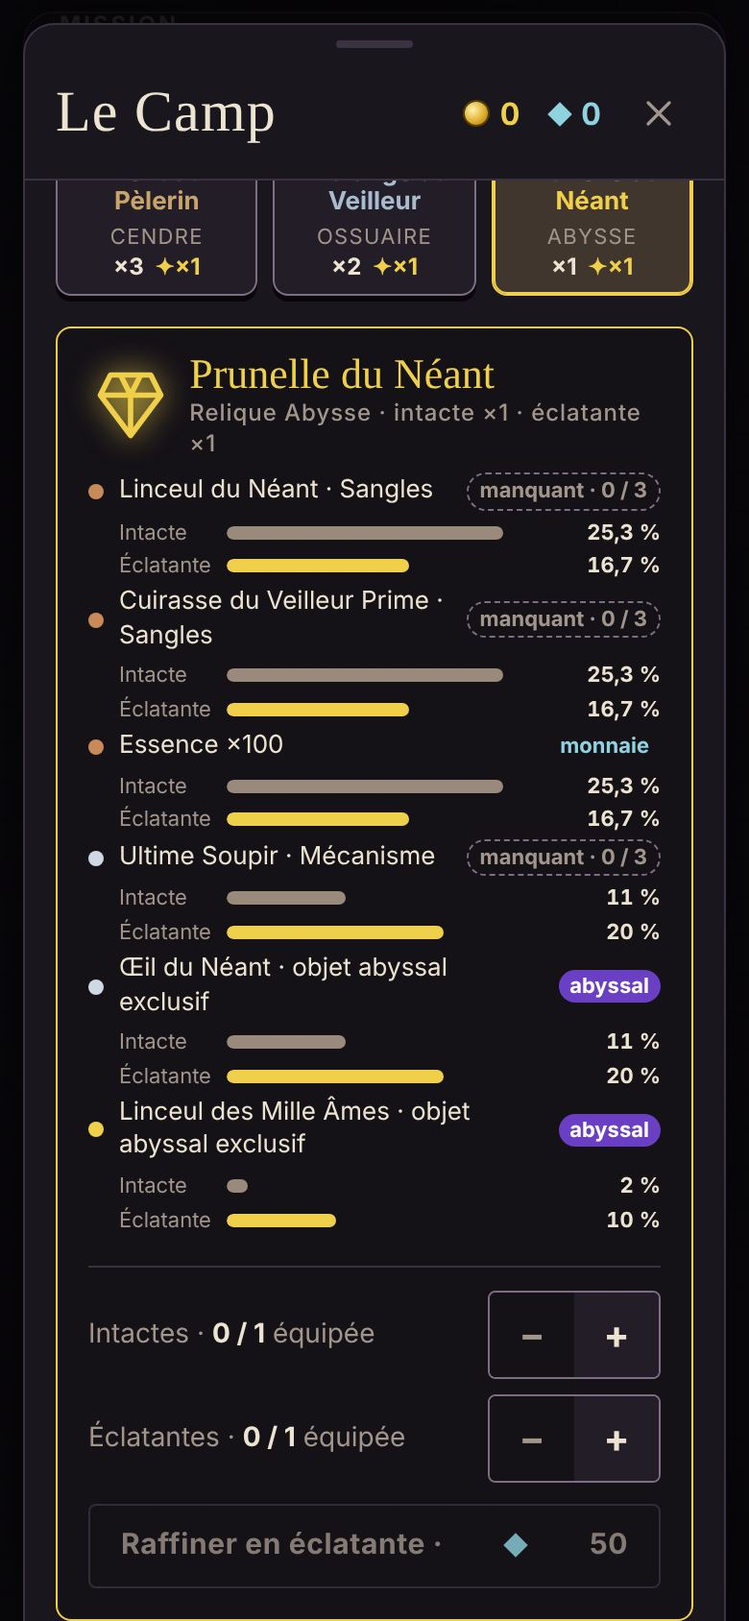
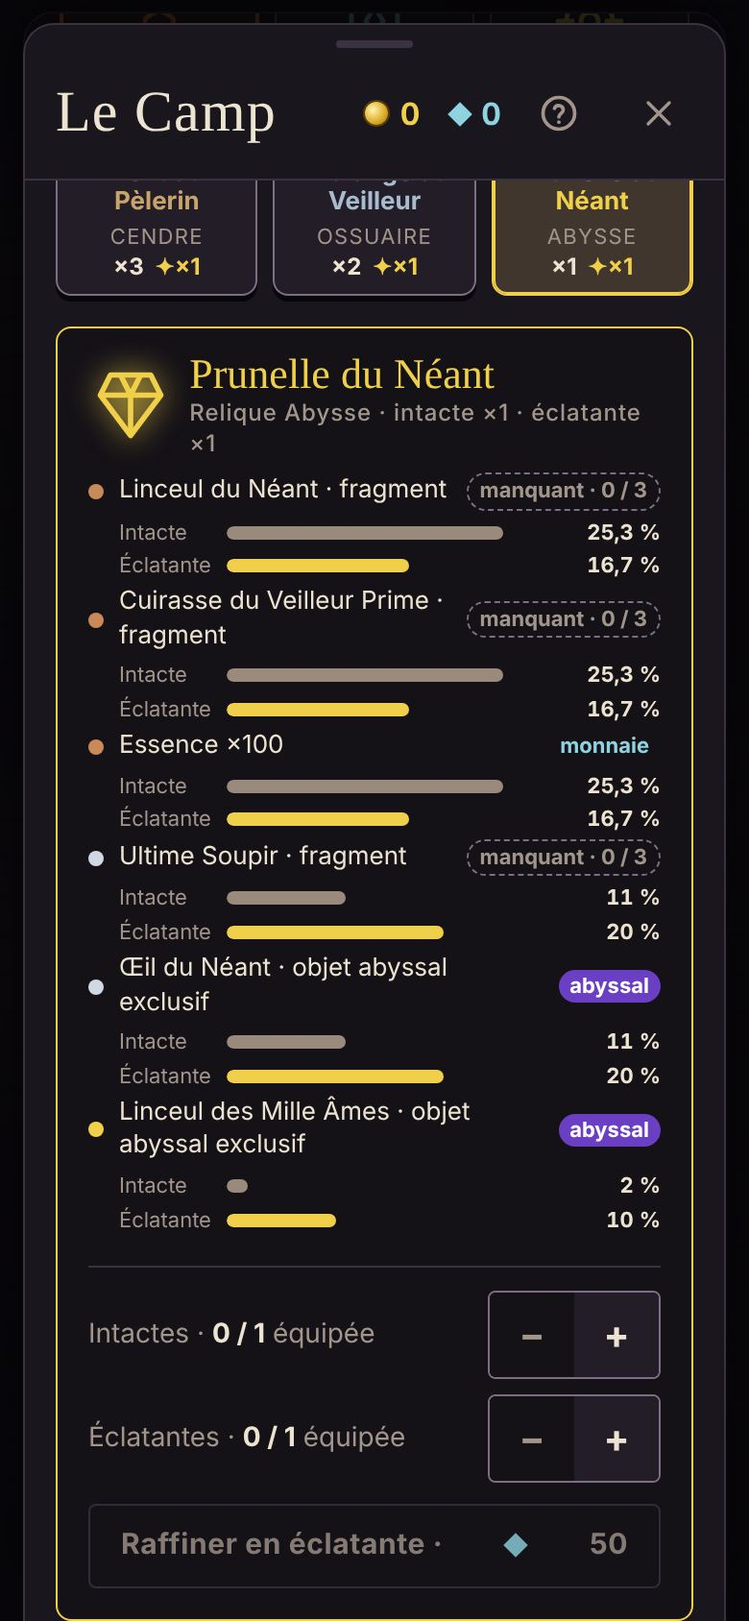
feat(butin): schémas légendaires et Prime réservés aux reliques Abysse, reliques forgées ouvertes en mission, fragments manquants en priorité,fix(rendu): écran noir au redémarrage, boucle protégée, bascule auto en rendu standard si le contexte WebGL est perdu

diff --git a/js/camp.js b/js/camp.js
@@ -102,7 +102,7 @@ function campArsenal2(){
 }
 let relSel=null,relTier='all';
 const FUSE_COST=[20,40,80,150];
-function relAvail(t){const out=[];for(const id in RELICS){if(RELICS[id].t!==t)continue;const a=meta.relics[id];if(!a)continue;
+function relAvail(t){const out=[];for(const id in RELICS){if(RELICS[id].t!==t||RELICS[id].fz)continue;const a=meta.relics[id];if(!a)continue;
   for(const rad of [false,true]){const own=Math.max(0,a[rad?1:0]|0),q=Math.min(own,relicQN(id,rad));for(let k=0;k<own;k++)out.push({id,rad,q:k>=own-q})}}
   return out.sort((x,y)=>(x.q-y.q)||(x.rad-y.rad)||((meta.relics[y.id][0]+meta.relics[y.id][1])-(meta.relics[x.id][0]+meta.relics[x.id][1])))}
 const legBps=()=>[...WPN[heroCls].filter(w=>w.r===3&&!ownedW(w.id)),...Object.keys(WPN).filter(c=>c!==heroCls).flatMap(c=>WPN[c].filter(w=>w.r===3&&!ownedW(w.id))),...GEAR_BP.filter(g=>g.r===3)].map(x=>x.id);
@@ -110,19 +110,20 @@ function chainPlan(t){const have=[0,1,2,3].map(i=>relAvail(i).length);let cost=0
   const ensure=(k,n)=>{const use=Math.min(n,have[k]);have[k]-=use;let r=n-use;if(!r)return true;if(k===0)return false;if(!ensure(k-1,3*r))return false;cost+=r*FUSE_COST[k-1];fus+=r;return true};
   if(!ensure(t,3))return null;return {cost:cost+FUSE_COST[t],fus}}
 function fuseOnce(t){const av=relAvail(t);if(av.length<3)return null;meta.essence-=FUSE_COST[t];for(const q of av.slice(0,3))meta.relics[q.id][q.rad?1:0]--;relicQFix();
-  if(t<3){const nid=pick(Object.keys(RELICS).filter(id=>RELICS[id].t===t+1&&!RELICS[id].bio));const a=meta.relics[nid]||(meta.relics[nid]=[0,0]);a[0]++;return nid}return true}
+  if(t<3){const nid=pick(Object.keys(RELICS).filter(id=>RELICS[id].t===t+1&&!RELICS[id].bio&&!RELICS[id].fz));const a=meta.relics[nid]||(meta.relics[nid]=[0,0]);a[0]++;return nid}return true}
 function ensureRel(t){while(relAvail(t).length<3){if(t===0)return false;if(!ensureRel(t-1))return false;fuseOnce(t-1)}return true}
 function fusionSection(){
-  let h=`<section class="cx-section"><h3 class="cx-section__label">Fusion de reliques</h3><p class="cx-hint" style="margin:0">Fusionne 3 reliques d'un même niveau. Celles hors de la file d'ouverture partent en premier, les intactes avant les éclatantes ; si besoin, des reliques de la file sont utilisées et en sont retirées. Trois reliques Abysse donnent un fragment de schéma légendaire de ton choix.</p><div class="fuse">`;
+  {const L=legBps();if(!fuseTgt||!L.includes(fuseTgt))fuseTgt=L[0]||null}
+  let h=`<section class="cx-section"><h3 class="cx-section__label">Fusion de reliques</h3><p class="cx-hint" style="margin:0">Fusionne 3 reliques d'un même niveau. Celles hors de la file d'ouverture partent en premier, les intactes avant les éclatantes ; si besoin, des reliques de la file sont utilisées et en sont retirées. Trois reliques Abysse donnent une relique forgée du schéma légendaire de ton choix : ouvre-la en mission pour recevoir à coup sûr un de ses fragments.</p><div class="fuse">`;
   for(let t=0;t<4;t++){const AV=relAvail(t),av=AV.length,qn=AV.slice(0,3).filter(q=>q.q).length,inQ=AV.filter(q=>q.q).length,cp=av<3&&t>0?chainPlan(t):null,cost=cp?cp.cost:FUSE_COST[t],ok=(av>=3||cp)&&meta.essence>=cost;
-    const res=t<3?`1 relique <b style="color:${RTIER[t+1].c}">${RTIER[t+1].n}</b>`:'<b style="color:var(--rar-legend)">1 fragment légendaire</b>';
+    const res=t<3?`1 relique <b style="color:${RTIER[t+1].c}">${RTIER[t+1].n}</b>`:`1 <b style="color:${RTIER[3].c}">relique forgée</b>`;
     h+=`<div class="frow"><span class="rgem" style="--tc:${RTIER[t].c}">${RELIC_SVG}</span><div class="fl"><b>3 × <span style="color:${RTIER[t].c}">${RTIER[t].n}</span> → ${res}</b><span>${av} possédée${av>1?'s':''}${inQ?` dont ${inQ} dans la file d'ouverture`:''}${av<3?(cp?` · les ${3-av} manquante${3-av>1?'s':''} seront créée${3-av>1?'s':''} avec tes reliques de niveau inférieur (${cp.fus} fusion${cp.fus>1?'s':''} en plus)`:` · il en faut ${3-av} de plus${t>0?`, ou ${3*(3-av)} ${RTIER[t-1].n} pour les créer`:''}`):''}${(av>=3||cp)&&meta.essence<cost?` · il manque ${cost-meta.essence} essence`:''}${ok&&qn?` · ${qn} ${qn>1?'seront retirées':'sera retirée'} de la file`:''}</span></div>
       <button class="btn buy" data-cact="rfuse" data-arg="${t}" ${ok&&(t<3||fuseTgt)?'':'disabled'}>${cp?'Fusionner en chaîne':'Fusionner'} · <span class="essi"></span>${cost}</button></div>`;
     if(t===3){const L=legBps();if(!fuseTgt||!L.includes(fuseTgt))fuseTgt=L[0]||null;
       h+=`<div class="ftgt"><span class="cx-hint" style="margin:0">Schéma visé :</span><div class="cx-chips">${L.map(id=>{const b=bpdef(id);return `<button class="cx-chip cx-chip--sm" data-cact="rftgt" data-arg="${id}" aria-pressed="${fuseTgt===id}">${b.n} <span class="n">${fragStatus(id)} / 3</span></button>`}).join('')||'<span class="cx-hint">Toutes les armes légendaires sont déjà fabriquées.</span>'}</div></div>`}}
   return h+'</div></section>'}
 const RELIC_SVG='<svg viewBox="0 0 24 24"><path d="M6 3h12l3 6-9 12L3 9z"/><path d="M3 9h18M9 3l3 6 3-6M12 9v12"/></svg>';
-function rwInfo(r){const [k,v]=r.split(':');if(k==='ess'||k==='gold')return {cur:true};if(k==='sang')return {sang:true};if(k==='aby')return {aby:true};const b=bpdef(k),pc=meta.parts[k]||[0,0,0],have=pc[+v]||0,n=fragStatus(k),built=b.kind==='arme'&&ownedW(k);
+function rwInfo(r){const [k,v]=r.split(':');if(k==='ess'||k==='gold')return {cur:true};if(k==='sang')return {sang:true};if(k==='aby')return {aby:true};const b=bpdef(k),pc=meta.parts[k]||[0,0,0],n=fragStatus(k),have=v==='*'?(n>=3?1:0):(pc[+v]||0),built=b.kind==='arme'&&ownedW(k);
   return {b,have,n,built,completes:!have&&n===2&&!built}}
 function campRelics(){
   relicQFix();const all=Object.keys(RELICS),own=all.filter(id=>{const a=meta.relics[id];return a&&(a[0]||a[1])}),Q=meta.relicQ;
@@ -148,12 +149,12 @@ function campRelics(){
   if(relSel){const id=relSel,R=RELICS[id],a=meta.relics[id],c=RTIER[R.t].c;
     const ctl=(rad,lab)=>{const n=relicQN(id,rad),ow=a[rad?1:0];return `<div class="rctl"><span>${lab} · <b>${n} / ${ow}</b> équipée${n>1?'s':''}</span><span class="cx-stepper"><button type="button" data-cact="rqdel" data-arg="${id}|${rad?1:0}" ${n?'':'disabled'} aria-label="Retirer une ${lab.toLowerCase()}">−</button><button type="button" data-cact="rqadd" data-arg="${id}|${rad?1:0}" ${n<ow?'':'disabled'} aria-label="Équiper une ${lab.toLowerCase()}">+</button></span></div>`};
     h+=`<section class="cx-card rdet" style="--tc:${c}"><div class="cx-card__head"><span class="rgem big${a[1]?' rad':''}">${RELIC_SVG}</span><div><h4 class="cx-card__title" style="color:${c}">${R.n}</h4><div class="cx-card__meta">Relique ${RTIER[R.t].n} · intacte ×${a[0]} · éclatante ×${a[1]}</div></div></div>
-      <ul class="rrw">${R.rw.map((r,i)=>{const rr=RW_RAR[i],inf=rwInfo(r),c0=CH[0][rr],c1=CH[1][rr];
+      <ul class="rrw">${(R.fz?[R.rw[0]]:R.rw).map((r,i)=>{const rr=R.fz?2:RW_RAR[i],inf=rwInfo(r),c0=R.fz?100:CH[0][rr],c1=R.fz?100:CH[1][rr];
         const st=inf.aby?'<span class="rs aby">abyssal</span>':inf.sang?'<span class="rs sang">exclusif</span>':inf.cur?'<span class="rs cur">monnaie</span>':inf.built?'<span class="rs ok">arme fabriquée</span>':inf.completes?'<span class="rs comp">★ complète le schéma</span>':inf.have?`<span class="rs ok">✓ possédé ×${inf.have}</span>`:`<span class="rs miss">manquant · ${inf.n} / 3</span>`;
         return `<li><div class="rrh"><span class="dot" style="background:${MOD_RAR[rr].c}"></span><span class="rl">${rwLabel(r)}</span>${st}</div>
           <div class="rbars"><span>Intacte</span><div class="rbar"><i style="width:${Math.min(100,c0*3.3)}%"></i></div><em>${fmtN(c0)} %</em><span>Éclatante</span><div class="rbar rad"><i style="width:${Math.min(100,c1*3.3)}%"></i></div><em>${fmtN(c1)} %</em></div></li>`}).join('')}</ul>
       <div class="cx-card__foot">${a[0]?ctl(false,'Intactes'):''}${a[1]?ctl(true,'Éclatantes'):''}
-        ${a[0]?`<button class="btn buy" data-cact="refine" data-arg="${id}" ${meta.essence<50||relicQN(id,false)>=a[0]?'disabled':''}>Raffiner en éclatante · <span class="essi"></span>50</button>`:''}</div></section>`}
+        ${a[0]&&!R.fz?`<button class="btn buy" data-cact="refine" data-arg="${id}" ${meta.essence<50||relicQN(id,false)>=a[0]?'disabled':''}>Raffiner en éclatante · <span class="essi"></span>50</button>`:''}</div></section>`}
   else h+='<p class="cx-hint" style="margin:0">Touche une relique pour voir ses récompenses, tes chances et ce qu\'il te manque. ★ : contient le dernier fragment d\'un schéma.</p>';
   return h+fusionSection()+qh;
 }
@@ -397,9 +398,9 @@ $('campSheet').addEventListener('click',e=>{
     else if(a==='rftgt'){fuseTgt=arg}
     else if(a==='rfuse'){const t=+arg,cp=relAvail(t).length<3&&t>0?chainPlan(t):null,cost=cp?cp.cost:FUSE_COST[t];if((relAvail(t).length>=3||cp)&&meta.essence>=cost&&(t<3||fuseTgt)&&ensureRel(t)){const av=relAvail(t);meta.essence-=FUSE_COST[t];
         for(const q of av.slice(0,3))meta.relics[q.id][q.rad?1:0]--;relicQFix();SND.play('relic');
-        if(t<3){const ids=Object.keys(RELICS).filter(id=>RELICS[id].t===t+1),nid=pick(ids);const a=meta.relics[nid]||(meta.relics[nid]=[0,0]);a[0]++;relSel=nid;
+        if(t<3){const ids=Object.keys(RELICS).filter(id=>RELICS[id].t===t+1&&!RELICS[id].fz),nid=pick(ids);const a=meta.relics[nid]||(meta.relics[nid]=[0,0]);a[0]++;relSel=nid;
           campMsg=`<div class="card" style="border-color:${RTIER[t+1].c}"><div class="meta">Fusion réussie</div><p style="margin:0;font-size:15px">Tu obtiens la relique <b style="color:${RTIER[t+1].c}">${relicName(nid)}</b>.</p></div>`}
-        else{const b=bpdef(fuseTgt),i=giveFrag(fuseTgt);campMsg=`<div class="card" style="border-color:var(--rar-legend)"><div class="meta">Fusion réussie</div><p style="margin:0;font-size:15px">Fragment <b style="color:var(--rar-legend)">${b.n} · ${b.frag[i]}</b> (${fragStatus(fuseTgt)} / 3). À fabriquer à l'Armurerie une fois complet.</p></div>`}}}
+        else{const fid='F_'+fuseTgt,a=meta.relics[fid]||(meta.relics[fid]=[0,0]);a[0]++;relSel=fid;campMsg=`<div class="card" style="border-color:${RTIER[3].c}"><div class="meta">Fusion réussie</div><p style="margin:0;font-size:15px">Tu obtiens la <b style="color:${RTIER[3].c}">${RELICS[fid].n}</b>. Équipe-la et ouvre-la en mission : elle donne à coup sûr un fragment de ce schéma (${fragStatus(fuseTgt)} / 3 aujourd'hui).</p></div>`}}}
     else if(a==='rsel'){relSel=relSel===arg?null:arg}
     else if(a==='rtier'){relTier=arg;relSel=null}
     else if(a==='rqadd'){const [id,rd]=arg.split('|'),rad=rd==='1',ow=(meta.relics[id]||[0,0])[rad?1:0];if(relicQN(id,rad)<ow)meta.relicQ.push({id,rad})}

diff --git a/aide/index.html b/aide/index.html
@@ -290,12 +290,12 @@ dialog button{position:absolute;top:8px;right:8px;width:40px;height:40px;border-
 <section id="butin"><div class="sec">
   <div class="txt">
     <h2><small>Ce que tu ramènes</small>Butin et raretés</h2>
-    <p>Les monstres lâchent de l'or, de l'équipement, des mods, des reliques, des fragments de schémas et des potions. Approche-toi pour les ramasser. Les objets ont 5 emplacements : arme, armure (vie), amulette (critique), bottes (vitesse) et anneau (dégâts), et de 1 à 4 propriétés appelées <b>affixes</b>.</p>
+    <p>Les monstres lâchent de l'or, de l'équipement (jusqu'à Légendaire, Ancestral en Tourment), des mods, des reliques, des potions, et parfois un fragment d'arme magique ou rare. Approche-toi pour les ramasser. Les objets ont 5 emplacements : arme, armure (vie), amulette (critique), bottes (vitesse) et anneau (dégâts), et de 1 à 4 propriétés appelées <b>affixes</b>.</p>
     <ul class="rar" aria-label="Raretés de la plus commune à la plus rare">
       <li style="--c:var(--r0)"><b>Commun</b><span>1 affixe.</span></li>
       <li style="--c:var(--r1)"><b>Magique</b><span>2 affixes.</span></li>
       <li style="--c:var(--r2)"><b>Rare</b><span>3 affixes.</span></li>
-      <li style="--c:var(--r3)"><b>Légendaire</b><span>4 affixes renforcées, nom unique.</span></li>
+      <li style="--c:var(--r3)"><b>Légendaire</b><span>4 affixes renforcées, nom unique. Les armes légendaires et les objets Prime se fabriquent avec les fragments des reliques Abysse.</span></li>
       <li style="--c:var(--r4)"><b>Ancestral</b><span>Uniquement en Tourment. Affixes encore plus fortes.</span></li>
       <li style="--c:var(--r5)"><b>Sanguin</b><span>Exclusif aux reliques Sanguine. Modèles fixes, affixes ×1,8.</span></li>
       <li style="--c:var(--r6)"><b>Abyssal</b><span>Exclusif aux reliques Abysse. Affixes ×2,1 et un pouvoir unique.</span></li>
@@ -332,10 +332,20 @@ dialog button{position:absolute;top:8px;right:8px;width:40px;height:40px;border-
 <section id="camp-arsenal"><div class="sec">
   <div class="txt">
     <h2><small>Camp · onglet 2</small>Armurerie</h2>
-    <p>Les armes et les objets <b>Prime</b> ne tombent pas tout faits : ils se fabriquent à partir d'un <b>schéma en 3 fragments</b> et d'un peu d'or. Les fragments viennent des reliques, et parfois des monstres dès le niveau 2.</p>
+    <p>Les armes et les objets <b>Prime</b> ne tombent pas tout faits : ils se fabriquent à partir d'un <b>schéma en 3 fragments</b> et d'un peu d'or. Plus l'objet est rare, plus la relique qui le contient est haute :</p>
+    <div class="tbl"><table>
+      <thead><tr><th>Schémas</th><th>Où trouver les fragments</th></tr></thead>
+      <tbody>
+        <tr><td><b style="color:var(--r1)">Armes magiques</b></td><td>reliques Cendre, et parfois les monstres (dès le niveau 2)</td></tr>
+        <tr><td><b style="color:var(--r2)">Armes rares</b></td><td>reliques Cendre à Sanguine, et parfois les monstres</td></tr>
+        <tr><td><b style="color:var(--r3)">Armes légendaires</b></td><td>reliques Abysse et reliques forgées, ouvertes en mission</td></tr>
+        <tr><td><b style="color:var(--r3)">Objets Prime</b></td><td>reliques Abysse (Couronne du Blizzard pour ceux de givre) et reliques forgées, ouvertes en mission</td></tr>
+      </tbody>
+    </table></div>
+    <p>Une relique donne toujours un fragment qui te manque, s'il en reste un à trouver pour ce schéma.</p>
     <ul>
       <li>Chaque héros a 4 armes à fabriquer, de magique à légendaire, en plus de son arme de départ.</li>
-      <li>Les objets Prime (armures, amulettes, bottes, anneaux) servent à tous les héros. Ceux de givre viennent des Abîmes gelés.</li>
+      <li>Les objets Prime (armures, amulettes, bottes, anneaux) servent à tous les héros. Ceux de givre viennent de la Couronne du Blizzard, la relique Abysse des Abîmes gelés.</li>
       <li><b>Tout fabriquer</b> fabrique tout ce qui a ses 3 fragments tant que l'or suffit.</li>
       <li><b>Recycler</b> une arme fabriquée non équipée ou un objet Prime rend de l'essence et 1 fragment de son schéma. <b>Tout recycler</b> le fait pour tous.</li>
     </ul>
@@ -376,7 +386,7 @@ dialog button{position:absolute;top:8px;right:8px;width:40px;height:40px;border-
       <tbody><tr><td>Intacte</td><td class="n">25,33 %</td><td class="n">11 %</td><td class="n">2 %</td></tr><tr><td>Éclatante</td><td class="n">16,67 %</td><td class="n">20 %</td><td class="n">10 %</td></tr></tbody>
     </table></div>
     <h3>Fusion de reliques</h3>
-    <p>3 reliques d'un même niveau donnent 1 relique du niveau au-dessus (20, 40 puis 80 essence). S'il en manque, la <b>fusion en chaîne</b> les crée d'abord avec les niveaux inférieurs. 3 reliques Abysse donnent un fragment légendaire de ton choix.</p>
+    <p>3 reliques d'un même niveau donnent 1 relique du niveau au-dessus (20, 40 puis 80 essence). S'il en manque, la <b>fusion en chaîne</b> les crée d'abord avec les niveaux inférieurs. 3 reliques Abysse donnent une <b>relique forgée</b> du schéma légendaire de ton choix. Comme toute relique, elle s'ouvre en mission, et donne alors à coup sûr un fragment de ce schéma.</p>
     <h3>Objets exclusifs</h3>
     <p>Les reliques <b style="color:var(--r5)">Sanguine</b> peuvent donner des objets <b style="color:var(--r5)">Sanguins</b>, et les reliques <b style="color:var(--r2)">Abysse</b> des objets <b style="color:var(--r6)">Abyssaux</b>. On ne les trouve nulle part ailleurs. Chaque objet Abyssal porte un pouvoir unique, lié à l'objet, qui ne peut pas être transféré :</p>
     <div class="tbl"><table>
@@ -493,7 +503,7 @@ dialog button{position:absolute;top:8px;right:8px;width:40px;height:40px;border-
     <ol>
       <li><b>Sors souvent au début.</b> Un butin ramené vaut mieux qu'une manche de trop.</li>
       <li><b>Équipe pendant la partie</b> les objets importants : ils sont gardés même si tu meurs.</li>
-      <li><b>Garde toujours une relique équipée</b> : les réactifs sont gratuits, et c'est la seule source de fragments sûre.</li>
+      <li><b>Garde toujours une relique équipée</b> : les réactifs sont gratuits, et c'est la seule source des fragments légendaires et des objets exclusifs.</li>
       <li><b>Raffine</b> les reliques dont tu veux la récompense rare : ses chances passent de 2 % à 10 %.</li>
       <li><b>Monte la Forge</b> en priorité (Force, Vigueur, Célérité), puis le Catalyseur et le Réacteur pour les mods.</li>
       <li><b>Repère tes niveaux</b> : un équipement rare autour de +25 tient jusqu'aux niveaux 20 à 30, un légendaire autour de +60 ouvre le niveau 50 et les premiers paliers de Tourment.</li>
@@ -504,7 +514,7 @@ dialog button{position:absolute;top:8px;right:8px;width:40px;height:40px;border-
 
 </main>
 
-<footer class="wrap">Crypte des Cendres · guide à jour de la version 53 du jeu. <a href="../index.html">Retour au jeu</a></footer>
+<footer class="wrap">Crypte des Cendres · guide à jour de la version 57 du jeu. <a href="../index.html">Retour au jeu</a></footer>
 
 <dialog id="zoom" aria-label="Capture agrandie"><button type="button" id="zoomX" aria-label="Fermer">×</button><img id="zoomImg" alt=""></dialog>
 

diff --git a/js/data.js b/js/data.js
@@ -84,29 +84,33 @@ function bpdef(id){const w=wdef(id);if(w)return {...w,kind:'arme',frag:FRAG[w.cl
 /* ---------- Reliques ---------- */
 const RTIER=[{n:'Cendre',c:'#c9a46a'},{n:'Ossuaire',c:'#a9bccf'},{n:'Sanguine',c:'#e07a7a'},{n:'Abysse',c:'#f0cf4a'}];
 const RELICS_GIVRE={
-  fA1:{t:0,n:"Éclat de givre",bio:1,rw:['y1:0','y2:0','ess:30','y3:0','y4:0','y1:1']},
-  fB1:{t:1,n:"Larme gelée",bio:1,rw:['y2:1','y3:1','gold:200','y4:1','y1:2','y2:2']},
-  fC1:{t:2,n:"Cœur d'hiver",bio:1,rw:['y3:2','y4:2','ess:80','y1:1','sang:s9','sang:s10']},
-  fD1:{t:3,n:"Couronne du Blizzard",bio:1,rw:['y4:0','y1:0','ess:150','y2:2','aby:a9','aby:a10']},
+  fA1:{t:0,n:"Éclat de givre",bio:1,rw:['a1:*','g1:*','ess:30','m1:*','a2:*','g2:*']},
+  fB1:{t:1,n:"Larme gelée",bio:1,rw:['a2:*','g2:*','gold:200','m3:*','a3:*','g3:*']},
+  fC1:{t:2,n:"Cœur d'hiver",bio:1,rw:['a3:*','m3:*','ess:80','g3:*','sang:s9','sang:s10']},
+  fD1:{t:3,n:"Couronne du Blizzard",bio:1,rw:['y1:*','y2:*','y3:*','y4:*','aby:a9','aby:a10']},
 };
 const RELICS={
-  lA1:{t:0,n:"Dent du Pèlerin",rw:['a1:0','g1:0','ess:20','m1:1','a2:0','g2:2']},
-  lB1:{t:0,n:"Larme de suie",rw:['m1:0','a1:1','gold:80','g1:1','m2:0','a2:2']},
-  lC1:{t:0,n:"Clou du Bûcher",rw:['g1:2','m1:2','a1:2','g2:0','a2:1','m2:2']},
-  mA1:{t:1,n:"Phalange du Veilleur",rw:['g2:1','m2:1','ess:40','a3:0','g3:0','m3:0']},
-  mB1:{t:1,n:"Crâne fêlé",rw:['a2:0','g2:2','m2:0','a3:1','m3:1','g3:1']},
-  mC1:{t:1,n:"Côte du Roi-mendiant",rw:['a2:2','m2:2','gold:200','g3:2','m3:2','a3:2']},
-  nA1:{t:2,n:"Cœur noirci",rw:['a3:0','g3:0','m3:0','sang:s1','sang:s2','sang:s3']},
-  nB1:{t:2,n:"Calice rouge",rw:['a3:1','g3:1','m3:1','sang:s4','sang:s5','sang:s6']},
-  nC1:{t:2,n:"Veine de la Veuve",rw:['a3:2','g3:2','m3:2','sang:s7','sang:s8','sang:s1']},
-  xA1:{t:3,n:"Prunelle du Néant",rw:['x1:1','x2:1','ess:100','a4:2','aby:a1','aby:a2']},
-  xB1:{t:3,n:"Couronne brisée",rw:['x4:0','x2:2','gold:400','g4:2','aby:a3','aby:a4']},
-  xC1:{t:3,n:"Os du Premier Roi",rw:['x1:0','x3:0','ess:100','m4:2','aby:a5','aby:a6']},
-  nD1:{t:2,n:"Fiole d'ichor",rw:['x5:0','x6:0','ess:60','sang:s2','sang:s6','sang:s7']},
-  xD1:{t:3,n:"Sablier noir",rw:['x6:1','x5:0','gold:300','x6:2','aby:a7','aby:a8']},
+  lA1:{t:0,n:"Dent du Pèlerin",rw:['a1:*','g1:*','ess:20','m1:*','a2:*','g2:*']},
+  lB1:{t:0,n:"Larme de suie",rw:['m1:*','a1:*','gold:80','g1:*','m2:*','a2:*']},
+  lC1:{t:0,n:"Clou du Bûcher",rw:['g1:*','m1:*','a1:*','g2:*','a2:*','m2:*']},
+  mA1:{t:1,n:"Phalange du Veilleur",rw:['g2:*','m2:*','ess:40','a3:*','g3:*','m3:*']},
+  mB1:{t:1,n:"Crâne fêlé",rw:['a2:*','g2:*','m2:*','a3:*','m3:*','g3:*']},
+  mC1:{t:1,n:"Côte du Roi-mendiant",rw:['a2:*','m2:*','gold:200','g3:*','m3:*','a3:*']},
+  nA1:{t:2,n:"Cœur noirci",rw:['a3:*','g3:*','m3:*','sang:s1','sang:s2','sang:s3']},
+  nB1:{t:2,n:"Calice rouge",rw:['a3:*','g3:*','m3:*','sang:s4','sang:s5','sang:s6']},
+  nC1:{t:2,n:"Veine de la Veuve",rw:['a3:*','g3:*','m3:*','sang:s7','sang:s8','sang:s1']},
+  xA1:{t:3,n:"Prunelle du Néant",rw:['x1:*','x2:*','ess:100','a4:*','aby:a1','aby:a2']},
+  xB1:{t:3,n:"Couronne brisée",rw:['x3:*','x4:*','gold:400','g4:*','aby:a3','aby:a4']},
+  xC1:{t:3,n:"Os du Premier Roi",rw:['x5:*','x6:*','ess:100','m4:*','aby:a5','aby:a6']},
+  nD1:{t:2,n:"Fiole d'ichor",rw:['g3:*','m3:*','ess:60','sang:s2','sang:s6','sang:s7']},
+  xD1:{t:3,n:"Sablier noir",rw:['x2:*','x5:*','gold:300','x6:*','aby:a7','aby:a8']},
 };
 const RW_RAR=[0,0,0,1,1,2], CH=[[25.33,11,2],[16.67,20,10]], REACT_N=10;
 Object.assign(RELICS,RELICS_GIVRE);
+/* Reliques forgées : 3 Abysse fusionnées au Camp donnent une de ces reliques (une par schéma légendaire).
+   Elle s'ouvre en mission comme les autres et donne à coup sûr un fragment de son schéma, manquant en priorité. */
+for(const b of [...Object.values(WPN).flat().filter(w=>w.r===3),...GEAR_BP.filter(g=>g.r===3)])
+  RELICS['F_'+b.id]={t:3,fz:1,n:`Relique forgée · ${b.n}`,rw:Array(6).fill(b.id+':*')};
 /* Niveau de relique selon le niveau de mission : 1–10 Cendre, 11–25 Ossuaire, 26–40 Sanguine, 41+ Abysse ; 70 % ce niveau, 20 % celui du dessous, 10 % celui du dessus. */
 const REL_BAND=[10,25,40];
 const relicBase=L=>REL_BAND.filter(x=>L>x).length;
@@ -152,7 +156,7 @@ function abyItem(aid,l){const T=ABY[aid],slot=T.slot,bk=BASE_STAT[slot];
   for(const k of T.aff){const A=AFF[k];it.aff[k]=Math.max(1,Math.round(A.r(l)*ABY_K))}
   it.aff[T.pw]=AFF[T.pw].r(l);return it}
 const abyLvl=()=>sangLvl()+10;
-function rwLabel(r){const [k,v]=r.split(':');if(k==='aby')return `${ABY[v].n} · objet abyssal exclusif`;if(k==='sang')return `${SANG[v].n} · objet exclusif`;if(k==='ess')return `Essence ×${v}`;if(k==='gold')return `${v} or`;const b=bpdef(k);return `${b.n} · ${b.frag[+v]}`}
+function rwLabel(r){const [k,v]=r.split(':');if(k==='aby')return `${ABY[v].n} · objet abyssal exclusif`;if(k==='sang')return `${SANG[v].n} · objet exclusif`;if(k==='ess')return `Essence ×${v}`;if(k==='gold')return `${v} or`;const b=bpdef(k);return v==='*'?`${b.n} · fragment`:`${b.n} · ${b.frag[+v]}`}
 const MODES={
   survie:{n:'Survie',d:'Tiens face aux hordes. Toutes les 3 minutes, sors ou continue. Chaque manche terminée rapporte une relique.'},
   defense:{n:'Défense',d:'Protège le cryopode contre des vagues d\'ennemis. Toutes les 5 vagues : une relique et un équipement, puis sors ou continue.'},
@@ -392,7 +396,8 @@ function weaponItem(c,id){const w=(id&&wdef(id)&&ownedW(id))?wdef(id):wdef(WPN[c
   return {id:'w_'+w.id,wid:w.id,slot:'arme',r:w.r,lvl:1,base:{k:'dmg',v:w.dmg},aff:af,name:w.n,type:'Arme',up:meta.wlv[w.id]||0}}
 const curEq=()=>({arme:weaponItem(heroCls,meta.wpn[heroCls]),armure:meta.gear.armure||null,amulette:meta.gear.amulette||null,bottes:meta.gear.bottes||null,anneau:meta.gear.anneau||null});
 function rollPart(){
-  const L=G?G.level:1,ws=[...WPN[heroCls].slice(1),...GEAR_BP],wt=ws.map((w,i)=>i<4?Math.max(.5,4-i+(L-1)*i*.7):Math.max(.3,.2*L));
+  // En mission, seuls les schémas magiques et rares de l'arme du héros tombent ; légendaires et Prime : reliques Abysse uniquement.
+  const L=G?G.level:1,ws=WPN[heroCls].filter(w=>w.r>=1&&w.r<=2),wt=ws.map((w,i)=>Math.max(.5,3-i+(L-1)*i*.5));
   let x=Math.random()*wt.reduce((a,b)=>a+b,0),k=0;while(x>wt[k]){x-=wt[k];k++}
   return {w:ws[Math.min(k,ws.length-1)].id,p:ri(0,2)};
 }

diff --git a/js/render.js b/js/render.js
@@ -258,6 +258,8 @@ function initPixi(){
   const view=R.view;view.id='pv';view.setAttribute('aria-hidden','true');
   Object.assign(view.style,{position:'fixed',left:'0',top:'0',width:'100%',height:'100%',display:'block'});
   cv.parentNode.insertBefore(view,cv);
+  view.addEventListener('webglcontextlost',e=>{e.preventDefault();if(!PX)return;PX.lost=true;noteErr('rendu','contexte WebGL perdu');clearTimeout(PX.lostT);PX.lostT=setTimeout(()=>{if(PX&&PX.lost)dropPixi('contexte WebGL non rétabli')},1500)},false);
+  view.addEventListener('webglcontextrestored',()=>{if(!PX)return;PX.lost=false;clearTimeout(PX.lostT);try{if(G)buildStatic()}catch(err){dropPixi(err)}},false);
   const C=()=>new PIXI.Container(),Gr=()=>new PIXI.Graphics();
   const stage=C(),world=C(),top=C(),ui=C();
   const T={};
@@ -430,12 +432,14 @@ function renderPixi(){
   R.render(PX.stage);
 }
 function dropPixi(err){
-  console.error('PixiJS désactivé',err);
-  try{PX.R.view.remove();PX.R.destroy()}catch(e){}
-  PX=null;toast('Rendu WebGL indisponible : retour au rendu standard.');
+  if(!PX)return;noteErr('WebGL désactivé',err);
+  try{clearTimeout(PX.lostT);PX.R.view.remove();PX.R.destroy()}catch(e){}
+  PX=null;floorPat=null;resize();toast('Rendu WebGL interrompu : le jeu passe au rendu standard (modifiable dans les réglages).');
 }
+const glLost=()=>{try{return !!(PX&&(PX.lost||(PX.R.gl&&PX.R.gl.isContextLost&&PX.R.gl.isContextLost())))}catch(e){return false}};
 function render(){
-  if(PX){try{renderPixi();return}catch(err){dropPixi(err)}}
+  if(PX&&!PX.lost&&glLost())dropPixi('contexte WebGL perdu');
+  if(PX){if(PX.lost)return;try{renderPixi();return}catch(err){dropPixi(err)}}
   render2D();
 }
 

diff --git a/js/game.js b/js/game.js
@@ -33,6 +33,7 @@ function newGame(){
   if(G.mode==='defense'){const m=1200*(1+.5*(L-1));G.pod={x:MAP/2,y:MAP/2,r:28,hp:m,max:m,flash:0};G.pillars.push(G.pod);G.P.y+=110;G.cam.y=G.P.y;G.wave=0;G.waveState='break';G.waveT=3;G.toSpawn=0}
   if(G.mode==='capture'){spawnTarget()}
   $('objBar').hidden=G.mode!=='defense';
+  if(PX&&glLost())dropPixi('contexte WebGL perdu au lancement');
   if(PX)try{buildStatic()}catch(err){dropPixi(err)}
   const ub=$('bUlt');ub.querySelector('svg').innerHTML=C.uicon;ub.setAttribute('aria-label',C.ult+', ultime');const nb=$('bNova');nb.querySelector('svg').innerHTML=C.icon;nb.setAttribute('aria-label',C.skill);nb.style.color=C.col;
   $('hintTxt').innerHTML=C.hint;$('bossBar').hidden=true;
@@ -54,7 +55,7 @@ function spawnTarget(){
     state:'walk',slow:0,timer:0,blink:4,shown:0,wob:rand(0,6),downed:false};
   G.en.push(G.target);
 }
-function relicDrop(){const t=relicTierRoll(G.level),frost=G.biome===1&&Math.random()<.5;return pick(Object.keys(RELICS).filter(id=>RELICS[id].t===t&&(frost?RELICS[id].bio===1:!RELICS[id].bio)))}
+function relicDrop(){const t=relicTierRoll(G.level),frost=G.biome===1&&Math.random()<.5;return pick(Object.keys(RELICS).filter(id=>!RELICS[id].fz&&RELICS[id].t===t&&(frost?RELICS[id].bio===1:!RELICS[id].bio)))}
 const LV_MAX=50;
 const lootMul=L=>1+.06*(L-1);
 const goldMul=L=>1+.15*(L-1);

diff --git a/js/ui.js b/js/ui.js
@@ -247,7 +247,7 @@ function showOver(title,txt,earn,rel){$('overTitle').textContent=title;$('overTx
 function grantRelic(id,rad){
   const a=meta.relics[id];if(!a||a[rad?1:0]<=0)return null;
   a[rad?1:0]--;const r=rollRelic(id,rad),rar=RW_RAR[RELICS[id].rw.indexOf(r)];
-  const [k,v]=r.split(':');let si=null;if(k==='ess')meta.essence+=+v;else if(k==='gold')meta.gold+=+v;else if(k==='sang'){si=sangItem(v,sangLvl());meta.stash.push(si)}else if(k==='aby'){si=abyItem(v,abyLvl());meta.stash.push(si)}else{const p=meta.parts[k]||(meta.parts[k]=[0,0,0]);p[+v]++}
+  const [k,v]=r.split(':');let si=null;if(k==='ess')meta.essence+=+v;else if(k==='gold')meta.gold+=+v;else if(k==='sang'){si=sangItem(v,sangLvl());meta.stash.push(si)}else if(k==='aby'){si=abyItem(v,abyLvl());meta.stash.push(si)}else if(v==='*')giveFrag(k);else{const p=meta.parts[k]||(meta.parts[k]=[0,0,0]);p[+v]++}
   relicQFix();
   const frag=k!=='ess'&&k!=='gold'&&k!=='sang'&&k!=='aby';
   return {rar,html:`<b style="color:${MOD_RAR[rar].c}">${rwLabel(r)}</b> (${['commun','peu commun','rare'][rar]})`+(frag?` · fragment ${fragStatus(k)} / 3 de ${bpdef(k).n}, à fabriquer à l'Armurerie`:'')+(si?` · <b style="color:${RAR[si.r].c}">${si.name}</b> niveau ${si.lvl} rejoint ton coffre (${Object.keys(si.aff).map(q=>AFF[q].t(si.aff[q])).join(', ')})`:'')};

diff --git a/js/update.js b/js/update.js
@@ -35,4 +35,5 @@ const UPD={ok:false,ready:false,reg:null,ver:'',state:'',msg:''};
 function updSection(){
   const st={checking:'Recherche…',uptodate:'Le jeu est à jour.',ready:'Une nouvelle version est prête.',error:'Impossible de vérifier (hors connexion ?).',off:'Mises à jour gérées par la page (pas d\'application installée ici).'}[UPD.state]||'';
   return `<section class="cx-section"><h3 class="cx-section__label">Application</h3>
-    <div class="setrow"><div><b>Version ${UPD.ver?UPD.ver.replace('crypte-v',''):'—'}</b><span id="updSt">${st}</span></div>${UPD.ready?'<button class="cx-btn cx-btn--sm cx-btn--primary" id="setUpdGo">Mettre à jour</button>':UPD.ok?'<button class="cx-btn cx-btn--sm" id="setUpd">Rechercher</button>':''}</div></section>`}
+    <div class="setrow"><div><b>Version ${UPD.ver?UPD.ver.replace('crypte-v',''):'—'}</b><span id="updSt">${st}</span></div>${UPD.ready?'<button class="cx-btn cx-btn--sm cx-btn--primary" id="setUpdGo">Mettre à jour</button>':UPD.ok?'<button class="cx-btn cx-btn--sm" id="setUpd">Rechercher</button>':''}</div>
+    ${(()=>{let e='';try{e=localStorage.getItem('crypte-err')||''}catch(x){}return e?`<p class="cx-hint" style="margin:0;user-select:text">Dernier incident : ${e.replace(/[<>&]/g,'')}</p>`:''})()}</section>`}

diff --git a/js/main.js b/js/main.js
@@ -3,12 +3,17 @@
 function resize(){dpr=Math.min(devicePixelRatio||1,2);if(PX){PX.R.resize(innerWidth,innerHeight);return}cv.width=Math.round(innerWidth*dpr);cv.height=Math.round(innerHeight*dpr)}
 addEventListener('resize',resize);resize();
 let last=performance.now(),acc=0;const STEP=1/60;
+let lastErr=null;
+function noteErr(where,err){const m=`${where} : ${(err&&err.message)||err}`;if(lastErr===m)return;lastErr=m;console.error(where,err);try{localStorage.setItem('crypte-err',new Date().toLocaleString('fr-FR')+' · '+m)}catch(e){}}
 function frame(now){
+  requestAnimationFrame(frame);
+  try{step(now)}catch(err){noteErr('boucle',err)}
+}
+function step(now){
   const dt=Math.min(.1,(now-last)/1000);last=now;
   if(started&&!paused&&!G.over){acc+=dt;let n=0;while(acc>=STEP&&n<6&&started&&!paused&&!G.over){update(STEP);acc-=STEP;n++}if(n>=6)acc=0}
   else{acc=0;if(G.over){for(const p of G.parts){p.x+=p.vx*dt;p.y+=p.vy*dt;p.life-=dt}compact(G.parts,p=>p.life>0)}}
   render();hud();
-  requestAnimationFrame(frame);
 }
 function start(){
   let noGl=false;try{noGl=localStorage.getItem('crypte-nogl')==='1'}catch(e){}

diff --git a/sw.js b/sw.js
@@ -1,5 +1,5 @@
 // Crypte des Cendres — cache hors ligne. Change VERSION à chaque mise à jour du jeu.
-const VERSION = 'crypte-v54';
+const VERSION = 'crypte-v57';
 const CORE = ['./', './index.html', './manifest.webmanifest', './css/game.css', './js/data.js', './js/game.js', './js/render.js', './js/ui.js', './js/camp.js', './js/settings.js', './js/audio.js', './js/main.js', './js/update.js', './icons/icon-192.png', './icons/icon-512.png', './icons/maskable-512.png', './icons/apple-touch-icon.png'];
 const EXTERNAL = ['https://cdn.jsdelivr.net/npm/pixi.js@7.4.2/dist/pixi.min.js'];
 
